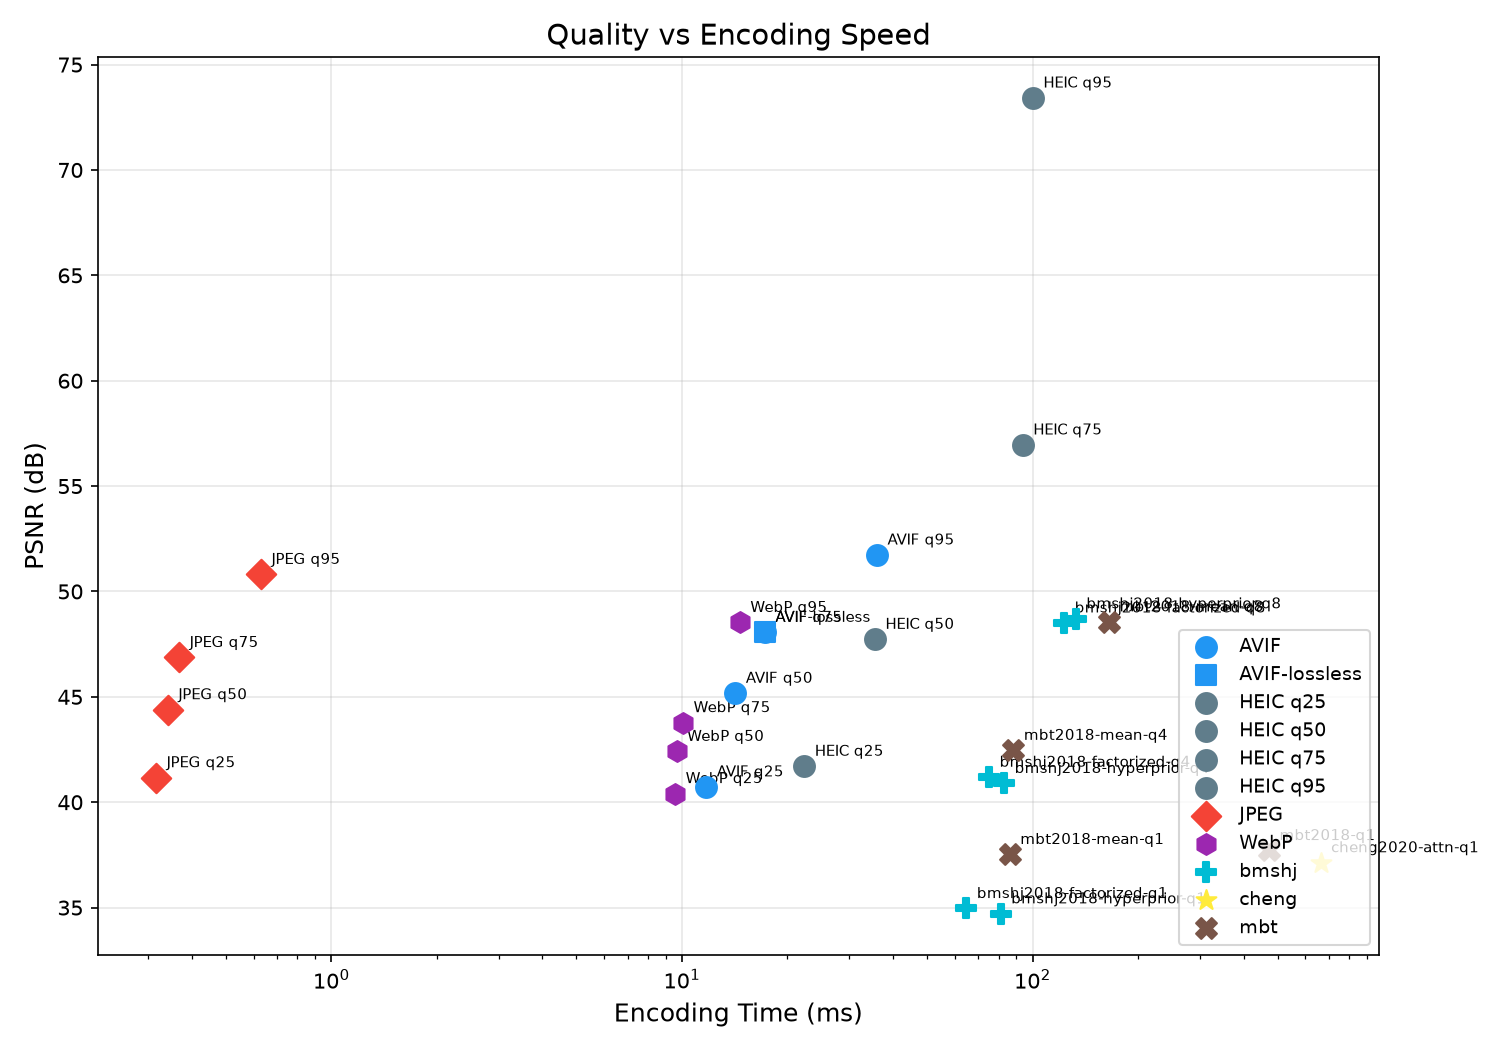
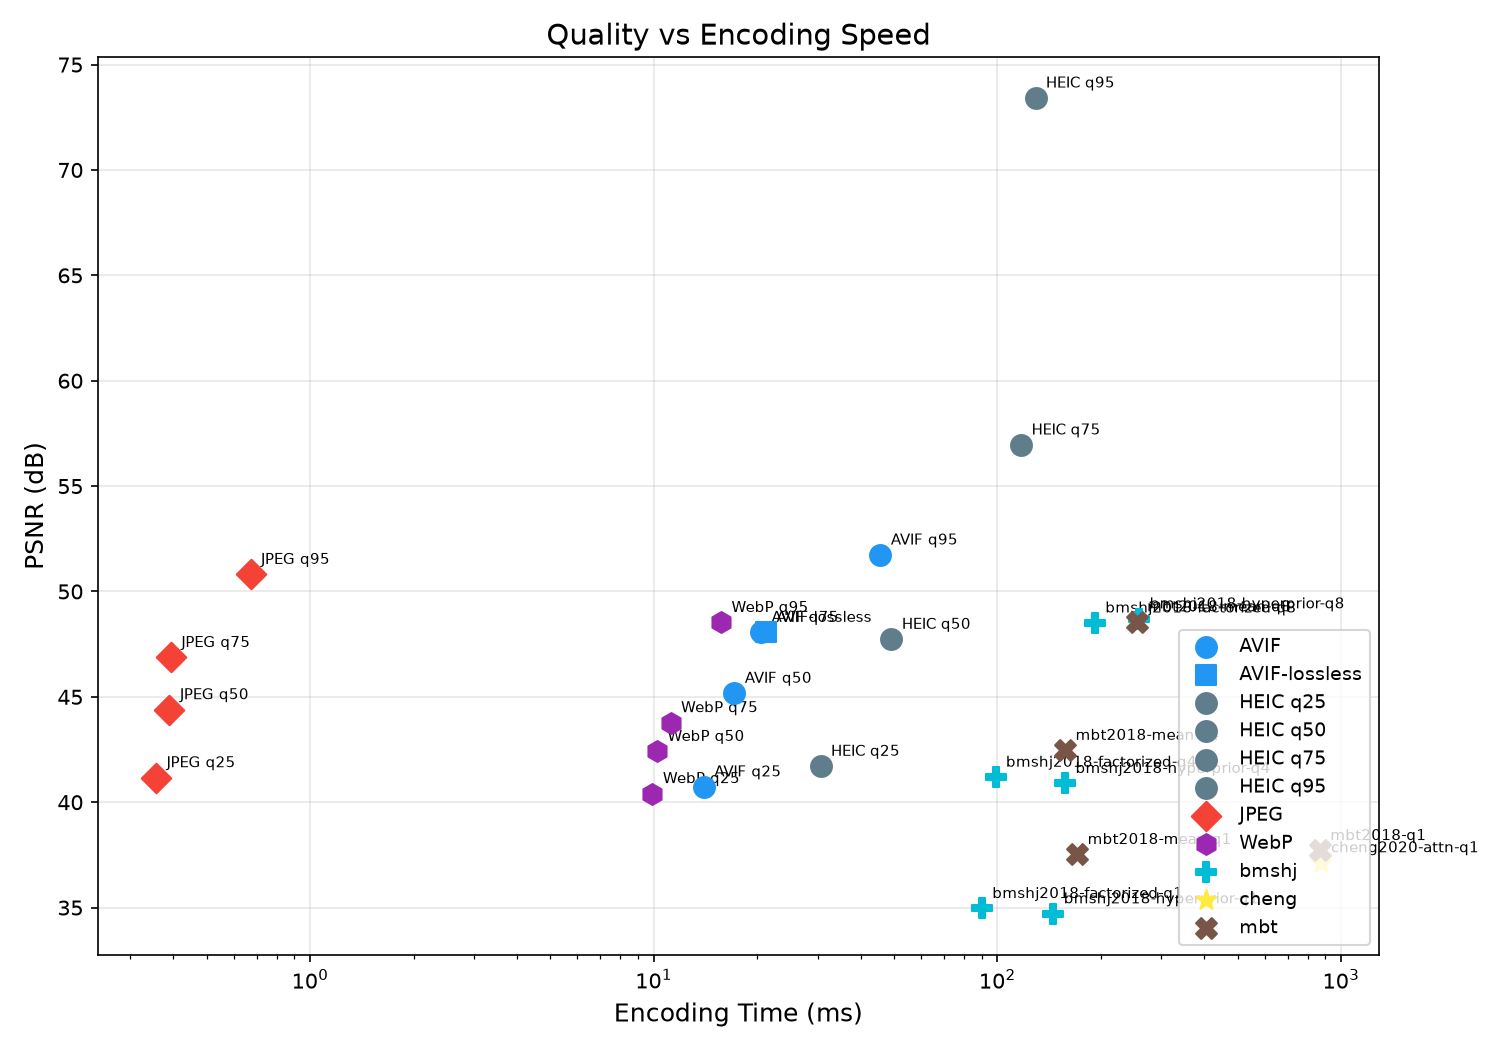
feat: 可视化改为左右两列布局(左=重建,右=error)，加入 cheng2020-attn-q1

diff --git a/results/report.html b/results/report.html
@@ -245,7 +245,7 @@
       <div class="meta-item">Images: <span>50</span></div>
       <div class="meta-item">Resolution: <span>640×512</span></div>
       <div class="meta-item">Bit Depth: <span>16-bit</span></div>
-      <div class="meta-item">Date: <span>2026-06-25 16:32</span></div>
+      <div class="meta-item">Date: <span>2026-06-25 17:18</span></div>
     </div>
   </div>
 
@@ -265,7 +265,7 @@
       </div>
       <div class="finding-card">
         <h4>Fastest Encoder</h4>
-        <div class="value">0.3 ms</div>
+        <div class="value">0.4 ms</div>
         <div class="detail">JPEG q25</div>
       </div>
       <div class="finding-card">
@@ -296,38 +296,38 @@
           </tr>
         </thead>
         <tbody>
-          <tr><td><span class="badge badge-avif">AVIF q25</span></td><td>50</td><td>40.73</td><td>0.9661</td><td>0.05</td><td>310.3x</td><td>11.7</td><td>0.0</td><td>2.1</td></tr>
-<tr><td><span class="badge badge-avif">AVIF q50</span></td><td>50</td><td>45.17</td><td>0.9825</td><td>0.13</td><td>129.4x</td><td>14.2</td><td>0.0</td><td>5.1</td></tr>
-<tr><td><span class="badge badge-avif">AVIF q75</span></td><td>50</td><td>48.06</td><td>0.9885</td><td>0.25</td><td>68.5x</td><td>17.2</td><td>0.0</td><td>9.8</td></tr>
-<tr><td><span class="badge badge-avif">AVIF q95</span></td><td>50</td><td>51.73</td><td>0.9939</td><td>0.94</td><td>18.0x</td><td>36.0</td><td>0.0</td><td>37.5</td></tr>
-<tr><td><span class="badge badge-lossless">AVIF-lossless</span></td><td>50</td><td>48.06</td><td>0.9885</td><td>0.25</td><td>68.5x</td><td>17.3</td><td>0.0</td><td>9.8</td></tr>
-<tr><td><span class="badge badge-jpeg">HEIC q25</span></td><td>50</td><td>41.71</td><td>0.9703</td><td>0.07</td><td>250.5x</td><td>22.4</td><td>0.1</td><td>2.6</td></tr>
-<tr><td><span class="badge badge-jpeg">HEIC q50</span></td><td>50</td><td>47.73</td><td>0.9883</td><td>0.22</td><td>74.4x</td><td>35.5</td><td>0.1</td><td>8.9</td></tr>
-<tr><td><span class="badge badge-jpeg">HEIC q75</span></td><td>50</td><td>56.96</td><td>0.9985</td><td>1.85</td><td>8.7x</td><td>93.9</td><td>0.1</td><td>74.2</td></tr>
-<tr><td><span class="badge badge-jpeg">HEIC q95</span></td><td>50</td><td class="best-psnr">73.42</td><td>1.0000</td><td>2.67</td><td>6.1x</td><td>100.3</td><td>0.1</td><td>106.9</td></tr>
-<tr><td><span class="badge badge-jpeg">JPEG q25</span></td><td>50</td><td>41.17</td><td>0.9637</td><td>0.17</td><td>93.3x</td><td class="best-speed">0.3</td><td>0.0</td><td>7.0</td></tr>
-<tr><td><span class="badge badge-jpeg">JPEG q50</span></td><td>50</td><td>44.39</td><td>0.9792</td><td>0.24</td><td>67.8x</td><td>0.3</td><td>0.0</td><td>9.6</td></tr>
+          <tr><td><span class="badge badge-avif">AVIF q25</span></td><td>50</td><td>40.73</td><td>0.9661</td><td>0.05</td><td>310.3x</td><td>14.0</td><td>0.1</td><td>2.1</td></tr>
+<tr><td><span class="badge badge-avif">AVIF q50</span></td><td>50</td><td>45.17</td><td>0.9825</td><td>0.13</td><td>129.4x</td><td>17.2</td><td>0.1</td><td>5.1</td></tr>
+<tr><td><span class="badge badge-avif">AVIF q75</span></td><td>50</td><td>48.06</td><td>0.9885</td><td>0.25</td><td>68.5x</td><td>20.5</td><td>0.1</td><td>9.8</td></tr>
+<tr><td><span class="badge badge-avif">AVIF q95</span></td><td>50</td><td>51.73</td><td>0.9939</td><td>0.94</td><td>18.0x</td><td>45.7</td><td>0.1</td><td>37.5</td></tr>
+<tr><td><span class="badge badge-lossless">AVIF-lossless</span></td><td>50</td><td>48.06</td><td>0.9885</td><td>0.25</td><td>68.5x</td><td>21.2</td><td>0.1</td><td>9.8</td></tr>
+<tr><td><span class="badge badge-jpeg">HEIC q25</span></td><td>50</td><td>41.71</td><td>0.9703</td><td>0.07</td><td>250.5x</td><td>30.6</td><td>0.1</td><td>2.6</td></tr>
+<tr><td><span class="badge badge-jpeg">HEIC q50</span></td><td>50</td><td>47.73</td><td>0.9883</td><td>0.22</td><td>74.4x</td><td>49.2</td><td>0.1</td><td>8.9</td></tr>
+<tr><td><span class="badge badge-jpeg">HEIC q75</span></td><td>50</td><td>56.96</td><td>0.9985</td><td>1.85</td><td>8.7x</td><td>117.3</td><td>0.1</td><td>74.2</td></tr>
+<tr><td><span class="badge badge-jpeg">HEIC q95</span></td><td>50</td><td class="best-psnr">73.42</td><td>1.0000</td><td>2.67</td><td>6.1x</td><td>129.1</td><td>0.1</td><td>106.9</td></tr>
+<tr><td><span class="badge badge-jpeg">JPEG q25</span></td><td>50</td><td>41.17</td><td>0.9637</td><td>0.17</td><td>93.3x</td><td class="best-speed">0.4</td><td>0.0</td><td>7.0</td></tr>
+<tr><td><span class="badge badge-jpeg">JPEG q50</span></td><td>50</td><td>44.39</td><td>0.9792</td><td>0.24</td><td>67.8x</td><td>0.4</td><td>0.0</td><td>9.6</td></tr>
 <tr><td><span class="badge badge-jpeg">JPEG q75</span></td><td>50</td><td>46.87</td><td>0.9864</td><td>0.35</td><td>47.6x</td><td>0.4</td><td>0.0</td><td>13.8</td></tr>
-<tr><td><span class="badge badge-jpeg">JPEG q95</span></td><td>50</td><td>50.81</td><td>0.9930</td><td>1.05</td><td>15.6x</td><td>0.6</td><td>0.0</td><td>41.9</td></tr>
-<tr><td><span class="badge badge-j2k">JPEG2000 q75</span></td><td>50</td><td><span class="lossless-val">∞</span></td><td><span class="lossless-val">1.0000</span></td><td>4.86</td><td>3.3x</td><td>43.6</td><td>0.0</td><td>194.5</td></tr>
-<tr><td><span class="badge badge-lossless">JPEG2000-lossless</span></td><td>50</td><td><span class="lossless-val">∞</span></td><td><span class="lossless-val">1.0000</span></td><td>4.86</td><td>3.3x</td><td>49.8</td><td>0.2</td><td>194.5</td></tr>
-<tr><td><span class="badge badge-lossless">PNG</span></td><td>50</td><td><span class="lossless-val">∞</span></td><td><span class="lossless-val">1.0000</span></td><td>6.79</td><td>2.4x</td><td>11.7</td><td>0.0</td><td>271.6</td></tr>
-<tr><td><span class="badge badge-webp">WebP q25</span></td><td>50</td><td>40.41</td><td>0.9642</td><td>0.07</td><td>242.8x</td><td>9.6</td><td>0.1</td><td>2.8</td></tr>
-<tr><td><span class="badge badge-webp">WebP q50</span></td><td>50</td><td>42.41</td><td>0.9732</td><td>0.10</td><td>173.2x</td><td>9.7</td><td>0.1</td><td>3.9</td></tr>
-<tr><td><span class="badge badge-webp">WebP q75</span></td><td>50</td><td>43.78</td><td>0.9784</td><td>0.13</td><td>129.8x</td><td>10.1</td><td>0.1</td><td>5.2</td></tr>
-<tr><td><span class="badge badge-webp">WebP q95</span></td><td>50</td><td>48.53</td><td>0.9898</td><td>0.51</td><td>34.1x</td><td>14.6</td><td>0.1</td><td>20.5</td></tr>
-<tr><td><span class="badge badge-lossless">WebP-lossless</span></td><td>50</td><td><span class="lossless-val">∞</span></td><td><span class="lossless-val">1.0000</span></td><td>2.26</td><td>7.2x</td><td>81.2</td><td>0.1</td><td>90.3</td></tr>
-<tr><td><span class="badge badge-learned">bmshj2018-factorized-q1</span></td><td>50</td><td>34.96</td><td>0.9533</td><td>0.06</td><td>251.0x</td><td>64.8</td><td>93.5</td><td>2.6</td></tr>
-<tr><td><span class="badge badge-learned">bmshj2018-factorized-q4</span></td><td>50</td><td>41.19</td><td>0.9760</td><td>0.18</td><td>90.7x</td><td>75.2</td><td>100.1</td><td>7.1</td></tr>
-<tr><td><span class="badge badge-learned">bmshj2018-factorized-q8</span></td><td>50</td><td>48.51</td><td>0.9912</td><td>0.64</td><td>25.0x</td><td>123.2</td><td>169.7</td><td>25.7</td></tr>
-<tr><td><span class="badge badge-learned">bmshj2018-hyperprior-q1</span></td><td>50</td><td>34.71</td><td>0.9495</td><td>0.04</td><td>463.4x</td><td>81.2</td><td>110.8</td><td>1.4</td></tr>
-<tr><td><span class="badge badge-learned">bmshj2018-hyperprior-q4</span></td><td>50</td><td>40.89</td><td>0.9739</td><td>0.08</td><td>202.9x</td><td>83.0</td><td>112.3</td><td>3.2</td></tr>
-<tr><td><span class="badge badge-learned">bmshj2018-hyperprior-q8</span></td><td>50</td><td>48.70</td><td>0.9908</td><td>0.23</td><td>72.2x</td><td>133.0</td><td>176.5</td><td>9.3</td></tr>
-<tr><td><span class="badge badge-learned">cheng2020-attn-q1</span></td><td>50</td><td>37.13</td><td>0.9547</td><td>0.29</td><td>59.9x</td><td>663.8</td><td>2615.1</td><td>11.7</td></tr>
-<tr><td><span class="badge badge-learned">mbt2018-mean-q1</span></td><td>50</td><td>37.52</td><td>0.9512</td><td>0.02</td><td>709.5x</td><td>86.2</td><td>115.5</td><td>0.9</td></tr>
-<tr><td><span class="badge badge-learned">mbt2018-mean-q4</span></td><td>50</td><td>42.47</td><td>0.9755</td><td>0.06</td><td>262.8x</td><td>88.2</td><td>116.9</td><td>2.5</td></tr>
-<tr><td><span class="badge badge-learned">mbt2018-mean-q8</span></td><td>50</td><td>48.56</td><td>0.9904</td><td>0.21</td><td>78.6x</td><td>165.5</td><td>198.8</td><td>8.5</td></tr>
-<tr><td><span class="badge badge-learned">mbt2018-q1</span></td><td>50</td><td>37.71</td><td>0.9532</td><td class="best-bpp">0.02</td><td>872.4x</td><td>472.9</td><td>2239.1</td><td>0.8</td></tr>
+<tr><td><span class="badge badge-jpeg">JPEG q95</span></td><td>50</td><td>50.81</td><td>0.9930</td><td>1.05</td><td>15.6x</td><td>0.7</td><td>0.0</td><td>41.9</td></tr>
+<tr><td><span class="badge badge-j2k">JPEG2000 q75</span></td><td>50</td><td><span class="lossless-val">∞</span></td><td><span class="lossless-val">1.0000</span></td><td>4.86</td><td>3.3x</td><td>47.0</td><td>0.1</td><td>194.5</td></tr>
+<tr><td><span class="badge badge-lossless">JPEG2000-lossless</span></td><td>50</td><td><span class="lossless-val">∞</span></td><td><span class="lossless-val">1.0000</span></td><td>4.86</td><td>3.3x</td><td>46.4</td><td>0.1</td><td>194.5</td></tr>
+<tr><td><span class="badge badge-lossless">PNG</span></td><td>50</td><td><span class="lossless-val">∞</span></td><td><span class="lossless-val">1.0000</span></td><td>6.79</td><td>2.4x</td><td>11.3</td><td>0.1</td><td>271.6</td></tr>
+<tr><td><span class="badge badge-webp">WebP q25</span></td><td>50</td><td>40.41</td><td>0.9642</td><td>0.07</td><td>242.8x</td><td>9.9</td><td>0.1</td><td>2.8</td></tr>
+<tr><td><span class="badge badge-webp">WebP q50</span></td><td>50</td><td>42.41</td><td>0.9732</td><td>0.10</td><td>173.2x</td><td>10.2</td><td>0.1</td><td>3.9</td></tr>
+<tr><td><span class="badge badge-webp">WebP q75</span></td><td>50</td><td>43.78</td><td>0.9784</td><td>0.13</td><td>129.8x</td><td>11.2</td><td>0.2</td><td>5.2</td></tr>
+<tr><td><span class="badge badge-webp">WebP q95</span></td><td>50</td><td>48.53</td><td>0.9898</td><td>0.51</td><td>34.1x</td><td>15.7</td><td>0.1</td><td>20.5</td></tr>
+<tr><td><span class="badge badge-lossless">WebP-lossless</span></td><td>50</td><td><span class="lossless-val">∞</span></td><td><span class="lossless-val">1.0000</span></td><td>2.26</td><td>7.2x</td><td>85.4</td><td>0.2</td><td>90.3</td></tr>
+<tr><td><span class="badge badge-learned">bmshj2018-factorized-q1</span></td><td>50</td><td>34.96</td><td>0.9533</td><td>0.06</td><td>251.0x</td><td>90.1</td><td>116.2</td><td>2.6</td></tr>
+<tr><td><span class="badge badge-learned">bmshj2018-factorized-q4</span></td><td>50</td><td>41.19</td><td>0.9760</td><td>0.18</td><td>90.7x</td><td>98.8</td><td>126.8</td><td>7.1</td></tr>
+<tr><td><span class="badge badge-learned">bmshj2018-factorized-q8</span></td><td>50</td><td>48.51</td><td>0.9912</td><td>0.64</td><td>25.0x</td><td>192.2</td><td>239.6</td><td>25.7</td></tr>
+<tr><td><span class="badge badge-learned">bmshj2018-hyperprior-q1</span></td><td>50</td><td>34.71</td><td>0.9495</td><td>0.04</td><td>463.4x</td><td>145.5</td><td>187.0</td><td>1.4</td></tr>
+<tr><td><span class="badge badge-learned">bmshj2018-hyperprior-q4</span></td><td>50</td><td>40.89</td><td>0.9739</td><td>0.08</td><td>202.9x</td><td>157.5</td><td>194.8</td><td>3.2</td></tr>
+<tr><td><span class="badge badge-learned">bmshj2018-hyperprior-q8</span></td><td>50</td><td>48.70</td><td>0.9908</td><td>0.23</td><td>72.2x</td><td>258.7</td><td>307.6</td><td>9.3</td></tr>
+<tr><td><span class="badge badge-learned">cheng2020-attn-q1</span></td><td>50</td><td>37.13</td><td>0.9547</td><td>0.29</td><td>59.9x</td><td>872.9</td><td>3175.2</td><td>11.7</td></tr>
+<tr><td><span class="badge badge-learned">mbt2018-mean-q1</span></td><td>50</td><td>37.52</td><td>0.9512</td><td>0.02</td><td>709.5x</td><td>170.8</td><td>208.7</td><td>0.9</td></tr>
+<tr><td><span class="badge badge-learned">mbt2018-mean-q4</span></td><td>50</td><td>42.47</td><td>0.9755</td><td>0.06</td><td>262.8x</td><td>157.5</td><td>199.0</td><td>2.5</td></tr>
+<tr><td><span class="badge badge-learned">mbt2018-mean-q8</span></td><td>50</td><td>48.56</td><td>0.9904</td><td>0.21</td><td>78.6x</td><td>254.4</td><td>296.9</td><td>8.5</td></tr>
+<tr><td><span class="badge badge-learned">mbt2018-q1</span></td><td>50</td><td>37.71</td><td>0.9532</td><td class="best-bpp">0.02</td><td>872.4x</td><td>868.2</td><td>3691.8</td><td>0.8</td></tr>
         </tbody>
       </table>
     </div>
@@ -405,9 +405,10 @@
   <!-- DEMO -->
   <div class="section">
     <h2>Visual Effect Demo</h2>
-    <p>Center 256×256 crop of <code>FLIR_00001.tiff</code>. The top row shows the original,
-    traditional (JPEG/WebP/AVIF), and learned (CompressAI) reconstructions. The bottom row shows
-    absolute error heatmaps for lossy codecs and the PNG lossless reference.</p>
+    <p>Center 256×256 crop of <code>FLIR_00001.tiff</code>.
+    Left column shows the original and each codec's reconstruction;
+    right column shows the corresponding absolute error heatmaps
+    (brighter red = larger error).</p>
     <div class="chart-card">
       <img src="demo_comparison.png" alt="Compression Effect Demo">
     </div>
@@ -427,7 +428,7 @@
   </div>
 
   <div class="footer">
-    Generated by infraredComp benchmark — 2026-06-25 16:32
+    Generated by infraredComp benchmark — 2026-06-25 17:18
   </div>
 
 </div>

diff --git a/benchmark/demo.py b/benchmark/demo.py
@@ -23,6 +23,7 @@ _DEMO_CODECS = [
     ("AVIF q75", lambda img, name: compress_avif(img, name, quality=75)),
     ("bmshj-factorized-q1", lambda img, name: _learned(img, name, "bmshj2018-factorized", 1)),
     ("mbt-mean-q4", lambda img, name: _learned(img, name, "mbt2018-mean", 4)),
+    ("cheng2020-attn-q1", lambda img, name: _learned(img, name, "cheng2020-attn", 1)),
     ("PNG", compress_png),
 ]
 
@@ -110,8 +111,9 @@ def generate_demo_figure(
     """
     Generate a comparison figure and return (path, image_name).
 
-    The figure shows a center crop of the original image, reconstructions from
-    JPEG/WebP/AVIF, their error heatmaps, and a PNG lossless reference.
+    Two-column layout:
+      Left column  — Original image + each codec's reconstruction.
+      Right column — Error heatmaps (original row shows all-black / zero error).
     """
     output_dir.mkdir(parents=True, exist_ok=True)
     image_name, original = _find_demo_image()
@@ -122,48 +124,59 @@ def generate_demo_figure(
     for label, fn in _DEMO_CODECS:
         results.append(fn(original, image_name))
 
-    n_cols = len(results)
-    fig, axes = plt.subplots(2, n_cols, figsize=(4.2 * n_cols, 8))
+    n_rows = 1 + len(results)  # 1 (original) + N codecs
+    fig, axes = plt.subplots(n_rows, 2, figsize=(9, 4.2 * n_rows))
 
-    # Top row: original + reconstructions for all lossy codecs.
+    # --- Row 0: Original ---
     axes[0, 0].imshow(original_crop, cmap="gray")
-    axes[0, 0].set_title(f"Original ({original.shape[1]}×{original.shape[0]})", fontsize=11)
+    axes[0, 0].set_title(
+        f"Original ({original.shape[1]}×{original.shape[0]})",
+        fontsize=11, fontweight="bold",
+    )
     axes[0, 0].axis("off")
 
-    lossy_results = results[:-1]  # everything except PNG reference
-    for idx, result in enumerate(lossy_results):
+    axes[0, 1].imshow(np.zeros_like(original_crop), cmap="gray", vmin=0, vmax=255)
+    axes[0, 1].set_title("Error (none)", fontsize=11)
+    axes[0, 1].axis("off")
+
+    # --- Rows 1..N: each codec ---
+    for idx, result in enumerate(results):
+        row = idx + 1
         decoded = result.decoded if result.decoded is not None else np.zeros_like(original)
         decoded_crop = _crop_center(_to_uint8(decoded), crop_size)
-        axes[0, idx + 1].imshow(decoded_crop, cmap="gray")
-        axes[0, idx + 1].set_title(
-            f"{result.codec}\nPSNR {result.psnr:.1f} dB  BPP {result.bpp:.2f}",
-            fontsize=9,
-        )
-        axes[0, idx + 1].axis("off")
 
-    # Bottom row: error maps for all lossy codecs + PNG reference.
-    for idx, result in enumerate(lossy_results):
-        decoded = result.decoded if result.decoded is not None else np.zeros_like(original)
-        err = _error_map(original_crop, _crop_center(_to_uint8(decoded), crop_size))
-        axes[1, idx].imshow(err, cmap="hot")
-        axes[1, idx].set_title(f"{result.codec} Error", fontsize=9)
-        axes[1, idx].axis("off")
+        # Left: reconstruction
+        axes[row, 0].imshow(decoded_crop, cmap="gray")
+        if result.codec == "PNG":
+            axes[row, 0].set_title(
+                f"PNG (lossless)  BPP {result.bpp:.2f}",
+                fontsize=9,
+            )
+        else:
+            axes[row, 0].set_title(
+                f"{result.codec}\nPSNR {result.psnr:.1f} dB  BPP {result.bpp:.2f}",
+                fontsize=9,
+            )
+        axes[row, 0].axis("off")
 
-    png_result = results[-1]
-    png_decoded = png_result.decoded if png_result.decoded is not None else np.zeros_like(original)
-    png_crop = _crop_center(_to_uint8(png_decoded), crop_size)
-    axes[1, -1].imshow(png_crop, cmap="gray")
-    axes[1, -1].set_title(
-        f"PNG (lossless)\nBPP {png_result.bpp:.2f}",
-        fontsize=9,
-    )
-    axes[1, -1].axis("off")
+        # Right: error map
+        if result.codec == "PNG":
+            # PNG is lossless → show near-black error
+            axes[row, 1].imshow(
+                np.zeros_like(original_crop), cmap="gray", vmin=0, vmax=255
+            )
+            axes[row, 1].set_title("PNG Error ≈ 0", fontsize=9)
+        else:
+            err = _error_map(original_crop, decoded_crop)
+            axes[row, 1].imshow(err, cmap="hot")
+            axes[row, 1].set_title(f"{result.codec} Error", fontsize=9)
+        axes[row, 1].axis("off")
 
     fig.suptitle(
-        f"Infrared Compression Effect Demo — Center {crop_size}×{crop_size} crop of {image_name}",
+        f"Infrared Compression Demo — Center {crop_size}×{crop_size} crop of {image_name}",
         fontsize=14,
     )
-    fig.tight_layout(rect=[0, 0.02, 1, 0.95])
+    fig.tight_layout(rect=[0, 0.01, 1, 0.96])
 
     out_path = output_dir / "demo_comparison.png"
     fig.savefig(out_path, dpi=150)
@@ -178,9 +191,10 @@ def demo_html_section(image_name: str, crop_size: int = 256) -> str:
   <!-- DEMO -->
   <div class="section">
     <h2>Visual Effect Demo</h2>
-    <p>Center {crop_size}×{crop_size} crop of <code>{image_name}</code>. The top row shows the original,
-    traditional (JPEG/WebP/AVIF), and learned (CompressAI) reconstructions. The bottom row shows
-    absolute error heatmaps for lossy codecs and the PNG lossless reference.</p>
+    <p>Center {crop_size}×{crop_size} crop of <code>{image_name}</code>.
+    Left column shows the original and each codec's reconstruction;
+    right column shows the corresponding absolute error heatmaps
+    (brighter red = larger error).</p>
     <div class="chart-card">
       <img src="demo_comparison.png" alt="Compression Effect Demo">
     </div>

diff --git a/results/results.md b/results/results.md
@@ -2,35 +2,35 @@
 
 | Codec                   |   Images |   PSNR (dB) |   SSIM |   BPP | Ratio   |   Enc ms |   Dec ms |   Size KB |
 |:------------------------|---------:|------------:|-------:|------:|:--------|---------:|---------:|----------:|
-| AVIF q25                |       50 |       40.73 | 0.9661 |  0.05 | 310.3x  |     11.7 |      0   |       2.1 |
-| AVIF q50                |       50 |       45.17 | 0.9825 |  0.13 | 129.4x  |     14.2 |      0   |       5.1 |
-| AVIF q75                |       50 |       48.06 | 0.9885 |  0.25 | 68.5x   |     17.2 |      0   |       9.8 |
-| AVIF q95                |       50 |       51.73 | 0.9939 |  0.94 | 18.0x   |     36   |      0   |      37.5 |
-| AVIF-lossless           |       50 |       48.06 | 0.9885 |  0.25 | 68.5x   |     17.3 |      0   |       9.8 |
-| HEIC q25                |       50 |       41.71 | 0.9703 |  0.07 | 250.5x  |     22.4 |      0.1 |       2.6 |
-| HEIC q50                |       50 |       47.73 | 0.9883 |  0.22 | 74.4x   |     35.5 |      0.1 |       8.9 |
-| HEIC q75                |       50 |       56.96 | 0.9985 |  1.85 | 8.7x    |     93.9 |      0.1 |      74.2 |
-| HEIC q95                |       50 |       73.42 | 1      |  2.67 | 6.1x    |    100.3 |      0.1 |     106.9 |
-| JPEG q25                |       50 |       41.17 | 0.9637 |  0.17 | 93.3x   |      0.3 |      0   |       7   |
-| JPEG q50                |       50 |       44.39 | 0.9792 |  0.24 | 67.8x   |      0.3 |      0   |       9.6 |
+| AVIF q25                |       50 |       40.73 | 0.9661 |  0.05 | 310.3x  |     14   |      0.1 |       2.1 |
+| AVIF q50                |       50 |       45.17 | 0.9825 |  0.13 | 129.4x  |     17.2 |      0.1 |       5.1 |
+| AVIF q75                |       50 |       48.06 | 0.9885 |  0.25 | 68.5x   |     20.5 |      0.1 |       9.8 |
+| AVIF q95                |       50 |       51.73 | 0.9939 |  0.94 | 18.0x   |     45.7 |      0.1 |      37.5 |
+| AVIF-lossless           |       50 |       48.06 | 0.9885 |  0.25 | 68.5x   |     21.2 |      0.1 |       9.8 |
+| HEIC q25                |       50 |       41.71 | 0.9703 |  0.07 | 250.5x  |     30.6 |      0.1 |       2.6 |
+| HEIC q50                |       50 |       47.73 | 0.9883 |  0.22 | 74.4x   |     49.2 |      0.1 |       8.9 |
+| HEIC q75                |       50 |       56.96 | 0.9985 |  1.85 | 8.7x    |    117.3 |      0.1 |      74.2 |
+| HEIC q95                |       50 |       73.42 | 1      |  2.67 | 6.1x    |    129.1 |      0.1 |     106.9 |
+| JPEG q25                |       50 |       41.17 | 0.9637 |  0.17 | 93.3x   |      0.4 |      0   |       7   |
+| JPEG q50                |       50 |       44.39 | 0.9792 |  0.24 | 67.8x   |      0.4 |      0   |       9.6 |
 | JPEG q75                |       50 |       46.87 | 0.9864 |  0.35 | 47.6x   |      0.4 |      0   |      13.8 |
-| JPEG q95                |       50 |       50.81 | 0.993  |  1.05 | 15.6x   |      0.6 |      0   |      41.9 |
-| JPEG2000 q75            |       50 |      inf    | 1      |  4.86 | 3.3x    |     43.6 |      0   |     194.5 |
-| JPEG2000-lossless       |       50 |      inf    | 1      |  4.86 | 3.3x    |     49.8 |      0.2 |     194.5 |
-| PNG                     |       50 |      inf    | 1      |  6.79 | 2.4x    |     11.7 |      0   |     271.6 |
-| WebP q25                |       50 |       40.41 | 0.9642 |  0.07 | 242.8x  |      9.6 |      0.1 |       2.8 |
-| WebP q50                |       50 |       42.41 | 0.9732 |  0.1  | 173.2x  |      9.7 |      0.1 |       3.9 |
-| WebP q75                |       50 |       43.78 | 0.9784 |  0.13 | 129.8x  |     10.1 |      0.1 |       5.2 |
-| WebP q95                |       50 |       48.53 | 0.9898 |  0.51 | 34.1x   |     14.6 |      0.1 |      20.5 |
-| WebP-lossless           |       50 |      inf    | 1      |  2.26 | 7.2x    |     81.2 |      0.1 |      90.3 |
-| bmshj2018-factorized-q1 |       50 |       34.96 | 0.9533 |  0.06 | 251.0x  |     64.8 |     93.5 |       2.6 |
-| bmshj2018-factorized-q4 |       50 |       41.19 | 0.976  |  0.18 | 90.7x   |     75.2 |    100.1 |       7.1 |
-| bmshj2018-factorized-q8 |       50 |       48.51 | 0.9912 |  0.64 | 25.0x   |    123.2 |    169.7 |      25.7 |
-| bmshj2018-hyperprior-q1 |       50 |       34.71 | 0.9495 |  0.04 | 463.4x  |     81.2 |    110.8 |       1.4 |
-| bmshj2018-hyperprior-q4 |       50 |       40.89 | 0.9739 |  0.08 | 202.9x  |     83   |    112.3 |       3.2 |
-| bmshj2018-hyperprior-q8 |       50 |       48.7  | 0.9908 |  0.23 | 72.2x   |    133   |    176.5 |       9.3 |
-| cheng2020-attn-q1       |       50 |       37.13 | 0.9547 |  0.29 | 59.9x   |    663.8 |   2615.1 |      11.7 |
-| mbt2018-mean-q1         |       50 |       37.52 | 0.9512 |  0.02 | 709.5x  |     86.2 |    115.5 |       0.9 |
-| mbt2018-mean-q4         |       50 |       42.47 | 0.9755 |  0.06 | 262.8x  |     88.2 |    116.9 |       2.5 |
-| mbt2018-mean-q8         |       50 |       48.56 | 0.9904 |  0.21 | 78.6x   |    165.5 |    198.8 |       8.5 |
-| mbt2018-q1              |       50 |       37.71 | 0.9532 |  0.02 | 872.4x  |    472.9 |   2239.1 |       0.8 |
+| JPEG q95                |       50 |       50.81 | 0.993  |  1.05 | 15.6x   |      0.7 |      0   |      41.9 |
+| JPEG2000 q75            |       50 |      inf    | 1      |  4.86 | 3.3x    |     47   |      0.1 |     194.5 |
+| JPEG2000-lossless       |       50 |      inf    | 1      |  4.86 | 3.3x    |     46.4 |      0.1 |     194.5 |
+| PNG                     |       50 |      inf    | 1      |  6.79 | 2.4x    |     11.3 |      0.1 |     271.6 |
+| WebP q25                |       50 |       40.41 | 0.9642 |  0.07 | 242.8x  |      9.9 |      0.1 |       2.8 |
+| WebP q50                |       50 |       42.41 | 0.9732 |  0.1  | 173.2x  |     10.2 |      0.1 |       3.9 |
+| WebP q75                |       50 |       43.78 | 0.9784 |  0.13 | 129.8x  |     11.2 |      0.2 |       5.2 |
+| WebP q95                |       50 |       48.53 | 0.9898 |  0.51 | 34.1x   |     15.7 |      0.1 |      20.5 |
+| WebP-lossless           |       50 |      inf    | 1      |  2.26 | 7.2x    |     85.4 |      0.2 |      90.3 |
+| bmshj2018-factorized-q1 |       50 |       34.96 | 0.9533 |  0.06 | 251.0x  |     90.1 |    116.2 |       2.6 |
+| bmshj2018-factorized-q4 |       50 |       41.19 | 0.976  |  0.18 | 90.7x   |     98.8 |    126.8 |       7.1 |
+| bmshj2018-factorized-q8 |       50 |       48.51 | 0.9912 |  0.64 | 25.0x   |    192.2 |    239.6 |      25.7 |
+| bmshj2018-hyperprior-q1 |       50 |       34.71 | 0.9495 |  0.04 | 463.4x  |    145.5 |    187   |       1.4 |
+| bmshj2018-hyperprior-q4 |       50 |       40.89 | 0.9739 |  0.08 | 202.9x  |    157.5 |    194.8 |       3.2 |
+| bmshj2018-hyperprior-q8 |       50 |       48.7  | 0.9908 |  0.23 | 72.2x   |    258.7 |    307.6 |       9.3 |
+| cheng2020-attn-q1       |       50 |       37.13 | 0.9547 |  0.29 | 59.9x   |    872.9 |   3175.2 |      11.7 |
+| mbt2018-mean-q1         |       50 |       37.52 | 0.9512 |  0.02 | 709.5x  |    170.8 |    208.7 |       0.9 |
+| mbt2018-mean-q4         |       50 |       42.47 | 0.9755 |  0.06 | 262.8x  |    157.5 |    199   |       2.5 |
+| mbt2018-mean-q8         |       50 |       48.56 | 0.9904 |  0.21 | 78.6x   |    254.4 |    296.9 |       8.5 |
+| mbt2018-q1              |       50 |       37.71 | 0.9532 |  0.02 | 872.4x  |    868.2 |   3691.8 |       0.8 |